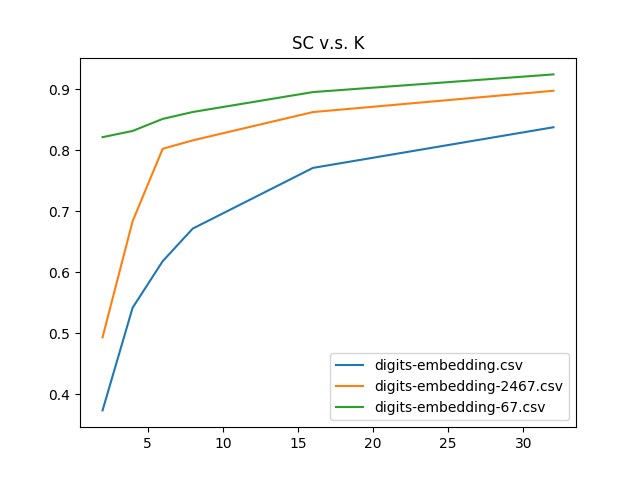
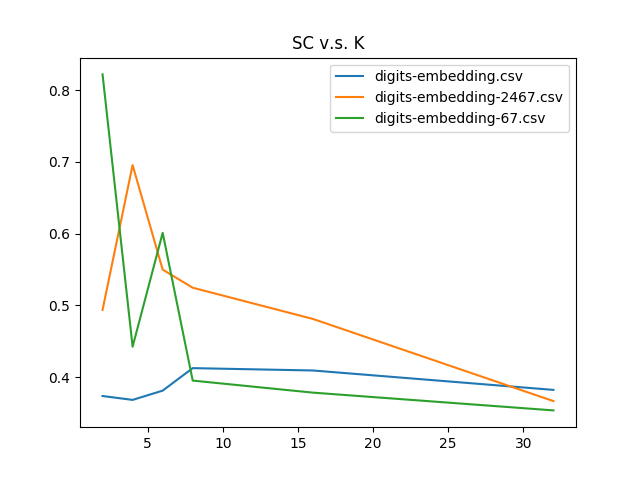
need to fix contingency table in nmi

diff --git a/hw5/analysis.py b/hw5/analysis.py
@@ -3,80 +3,135 @@ from kmeans import KMeans
 from pca import PCA
 
 def A1():
-	'''
-		Visualizing one digit.
-	'''
-	raw = genfromtxt('digits-raw.csv', delimiter=',')
-	image = raw[randint(raw.shape[0])][2:].reshape(28, 28)
-	imshow(image, cmap='gray')
-	show()
+    '''
+        Visualizing one digit.
+    '''
+    raw = genfromtxt('digits-raw.csv', delimiter=',')
+    image = raw[randint(raw.shape[0])][2:].reshape(28, 28)
+    imshow(image, cmap='gray')
+    show()
 
 def A2():
-	'''
-		Visualize 1000 embedding examples in 2D.
-	'''
-	emb = genfromtxt('digits-embedding.csv', delimiter=',')
-	perm = permutation(emb.shape[0])[:1000]
-	labels = array(emb[perm, 1], dtype=int)
-	colors = rand(10, 3)[labels, :]
-	scatter(emb[perm, 2], emb[perm, 3], c=colors, alpha=0.9, s=10)
-	show()
+    '''
+        Visualize 1000 embedding examples in 2D.
+    '''
+    emb = genfromtxt('digits-embedding.csv', delimiter=',')
+    perm = permutation(emb.shape[0])[:1000]
+    labels = array(emb[perm, 1], dtype=int)
+    colors = rand(10, 3)[labels, :]
+    scatter(emb[perm, 2], emb[perm, 3], c=colors, alpha=0.9, s=10)
+    show()
 
 def B1():
-	'''
-		Plot WC_SSD and SC over K.
-	'''
-	K = [2, 4, 6, 8, 16, 32]
-	fnames = ['digits-embedding.csv', 'digits-embedding-2467.csv', 'digits-embedding-67.csv']
-	wc_ssd = zeros((len(fnames), len(K)))
-	sc = zeros((len(fnames), len(K)))
-	for i, fname in enumerate(fnames):	
-		X = genfromtxt(fname, delimiter=',')[:, 2:]
-		for j, k in enumerate(K):
-			kmeans = KMeans(n_clusters=k)
-			kmeans.fit(X)
-			wc_ssd[i, j], sc[i, j], _ = kmeans.get_evals()
-	# Plot WC_SSD
-	figure()
-	for i, fname in enumerate(fnames):
-		plot(K, wc_ssd[i], label=fname)
-	legend()
-	title('WC_SSD v.s. K')
-	figure()
-	for i, fname in enumerate(fnames):
-		plot(K, sc[i], label=fname)
-	legend()
-	title('SC v.s. K')
-	show()
+    '''
+        Plot WC_SSD and SC over K.
+    '''
+    K = [2, 4, 6, 8, 16, 32]
+    fnames = ['digits-embedding.csv', 'digits-embedding-2467.csv', 'digits-embedding-67.csv']
+    wc_ssd = zeros((len(fnames), len(K)))
+    sc = zeros((len(fnames), len(K)))
+    for i, fname in enumerate(fnames):  
+        X = genfromtxt(fname, delimiter=',')[:, 2:]
+        for j, k in enumerate(K):
+            kmeans = KMeans(n_clusters=k)
+            kmeans.fit(X)
+            wc_ssd[i, j], sc[i, j], _ = kmeans.get_evals()
+    # Plot WC_SSD
+    figure()
+    for i, fname in enumerate(fnames):
+        plot(K, wc_ssd[i], label=fname)
+    legend()
+    title('WC_SSD v.s. K')
+    figure()
+    for i, fname in enumerate(fnames):
+        plot(K, sc[i], label=fname)
+    legend()
+    title('SC v.s. K')
+    show()
+
+def B3():
+    '''
+        Repeat 10 times for each K.
+    '''
+    K = [2, 4, 6, 8, 16, 32]
+    fnames = ['digits-embedding.csv', 'digits-embedding-2467.csv', 'digits-embedding-67.csv']
+    wc_ssd = zeros((len(fnames), len(K), 10))
+    sc = zeros((len(fnames), len(K), 10))
+    for i, fname in enumerate(fnames):  
+        X = genfromtxt(fname, delimiter=',')[:, 2:]
+        for j, k in enumerate(K):
+            for m in range(10):
+                kmeans = KMeans(n_clusters=k)
+                kmeans.fit(X)
+                wc_ssd[i, j, m], sc[i, j, m], _ = kmeans.get_evals()
+    ssd_means = mean(wc_ssd, axis=2)
+    sc_means = mean(sc, axis=2)
+    ssd_std = std(wc_ssd, axis=2)
+    sc_std = std(sc, axis=2)
+    save('B3_wc_ssd.npy', wc_ssd), save('B3_sc.npy', sc)
+    # Plot WC_SSD
+    figure()
+    for i, fname in enumerate(fnames):
+        errorbar(K, ssd_means[i], ssd_std[i], label=fname)
+    legend()
+    title('WC_SSD v.s. K')
+    figure()
+    for i, fname in enumerate(fnames):
+        errorbar(K, sc_means[i], sc_std[i], label=fname)
+    legend()
+    title('SC v.s. K')
+    show()
+
+def B4():
+    '''
+        Evaluate using NMI and visualize in 2D.
+    '''
+    fnames = ['digits-embedding.csv', 'digits-embedding-2467.csv', 'digits-embedding-67.csv']
+    nmi = zeros(len(fnames))
+    for i, k, fname in zip([0, 1, 2], [8, 4, 2], fnames):
+        raw = genfromtxt(fname, delimiter=',')
+        X = raw[:, 2:]
+        y = raw[:, 1]
+        kmeans = KMeans(n_clusters=k)
+        ind = kmeans.fit(X, y)
+        _, _, nmi[i] = kmeans.get_evals()
+        figure()
+        perm = permutation(X.shape[0])[:1000]
+        X = X[perm]
+        ind = ind[perm]
+        colors = rand(k, 3)[ind, :]
+        scatter(X[:, 0], X[:, 1], c=colors, alpha=0.9, s=30)
+    print "NMI =", nmi
+    show()
 
 def Bonus2():
-	'''
-		Visualization of the first 10 eigen vectors.
-	'''
-	raw = genfromtxt('digits-raw.csv', delimiter=',')
-	X = raw[:, 2:]
-	pca = PCA(10)
-	eigvec = pca.fit(X)
-	eigimg = eigvec.reshape(10, 28, 28)
-	for r in range(2):
-		for c in range(5):
-			i = r*5 + c
-			subplot(2, 5, i + 1)
-			imshow(eigimg[i], cmap='gray')
-			title(str(i))
-	show()
+    '''
+        Visualization of the first 10 eigen vectors.
+    '''
+    raw = genfromtxt('digits-raw.csv', delimiter=',')
+    X = raw[:, 2:]
+    pca = PCA(10)
+    eigvec = pca.fit(X)
+    eigimg = eigvec.reshape(10, 28, 28)
+    for r in range(2):
+        for c in range(5):
+            i = r*5 + c
+            subplot(2, 5, i + 1)
+            imshow(eigimg[i], cmap='gray')
+            title(str(i))
+    show()
 
 def Bonus3():
-	'''
-		Scatter plot of samples projected onto the first 
-		two eigenvectors.
-	'''
-	raw = genfromtxt('digits-raw.csv', delimiter=',')
-	X = raw[:, 2:]
-	pca = PCA(2)
-	X_new = pca.fit_transform(X)
-	perm = permutation(X.shape[0])[:1000]
-	labels = array(raw[perm, 1], dtype=int)
-	colors = rand(10, 3)[labels, :]
-	scatter(X_new[perm, 0], X_new[perm, 1], c=colors, alpha=0.9, s=10)
-	show()
+    '''
+        Scatter plot of samples projected onto the first 
+        two eigenvectors.
+    '''
+    raw = genfromtxt('digits-raw.csv', delimiter=',')
+    X = raw[:, 2:]
+    pca = PCA(2)
+    X_new = pca.fit_transform(X)
+    perm = permutation(X.shape[0])[:1000]
+    labels = array(raw[perm, 1], dtype=int)
+    colors = rand(10, 3)[labels, :]
+    scatter(X_new[perm, 0], X_new[perm, 1], c=colors, alpha=0.9, s=10)
+    show()

diff --git a/hw5/kmeans.py b/hw5/kmeans.py
@@ -1,14 +1,15 @@
 from pylab import *
 from sklearn.neighbors import NearestNeighbors
 from sklearn.metrics import silhouette_score, mutual_info_score
-
+import time
 
 class KMeans(object):
     """KMeans clustering"""
-    def __init__(self, n_clusters=10, max_iter=50):
+    def __init__(self, n_clusters=10, max_iter=50, debug=False):
         super(KMeans, self).__init__()
         self.n_clusters = n_clusters
         self.max_iter = max_iter
+        self.debug = debug
         self.WC_SSD = -1.
         self.SC = -1.
         self.NMI = -1.
@@ -37,6 +38,7 @@ class KMeans(object):
             # Update the cluster centers
             for k in range(self.n_clusters):
                 C[k] = mean(X[ind == k], axis=0)
+        t1 = time.time()
         # Compute the WC_SSD
         self.WC_SSD = sum((X - C[ind])**2)
 
@@ -46,15 +48,19 @@ class KMeans(object):
                 Compute SC for a single sample.
             '''
             dist = norm(X - x[:-1], axis=1)
+            nc_ind = argsort(norm(C - x[:-1], axis=1))[1]
             # x[-1] is encoded as the ind of x
-            wc = mean(dist[ind == x[-1]])
-            bc = mean(dist[ind != x[-1]])
-            return (bc - wc) / max(bc, wc)
+            a = sum(dist[ind == x[-1]]) / (sum(ind == x[-1]) - 1)
+            # b = mean(dist[ind != x[-1]])
+            b = mean(dist[ind == nc_ind])
+            return (b - a) / max(a, b)
         # Encode ind along with X
         X_enc = hstack((X, ind.reshape(-1, 1)))
         self.SC = mean(apply_along_axis(sc, 1, X_enc))
+        t2 = time.time()
         # Compute the NMI
         if isinstance(y, ndarray):
+            y = array(y, dtype=int)
             pc = unique(y, return_counts=True)[1]
             pc = pc * 1.0 / sum(pc)
             logpc = log(pc)
@@ -66,14 +72,19 @@ class KMeans(object):
             # pcg is n_clusters x n_classes
             pcg = bincount(self.n_clusters * ind + y,
                             minlength=self.n_clusters * n_classes) \
-                            .reshape(n_clusters, n_classes)
+                            .reshape(self.n_clusters, n_classes)
             pcg = pcg * 1.0 / sum(pcg)
-            nomin = sum(pcg * log(pcg / pc / pg[:, None]))
+            numer = sum(pcg * log(pcg / pc / pg[:, None]))
             denom = - dot(pc, logpc) - dot(pg, logpg)
-            self.NMI = nomin / denom
+            self.NMI = numer / denom
         print "WC-SSD %.3f" % self.WC_SSD
         print "SC %.3f" % self.SC
         print "NMI %.3f" % self.NMI
+        if self.debug: 
+            print "sklearn SC %.3f" % silhouette_score(X, ind)
+            if isinstance(y, ndarray): 
+                print "sklearn NMI %.3f" % mutual_info_score(y, ind)
+            print t2 - t1, time.time() - t2
         return ind
 
     def get_evals(self):
@@ -82,15 +93,15 @@ class KMeans(object):
         '''
         return self.WC_SSD, self.SC, self.NMI
 
+    def main():
+        n_clusters = 10
+        X = randn(1000, 2)
+        y = randint(n_clusters, size=1000)
+        kmeans = KMeans(n_clusters, debug=True)
+        ind = kmeans.fit(X, y)
+        colors = rand(n_clusters, 3)[ind, :]
+        scatter(X[:, 0], X[:, 1], c=colors, alpha=0.9, s=30)
+        show()     
 
 if __name__ == '__main__':
-    n_clusters = 10
-    X = randn(1000, 2)
-    y = randint(n_clusters, size=1000)
-    kmeans = KMeans(n_clusters)
-    ind = kmeans.fit(X, y)
-    print "WC_SSD, SC, NMI =", kmeans.get_evals()
-    print "sklearn SC =", silhouette_score(X, ind)
-    colors = rand(n_clusters, 3)[ind, :]
-    scatter(X[:, 0], X[:, 1], c=colors, alpha=0.9, s=30)
-    show()
+    main()

diff --git a/hw5/hw5.py b/hw5/hw5.py
@@ -18,6 +18,10 @@ def main():
 		A2()
 	if args.analysis == 'B1':
 		B1()
+	if args.analysis == 'B3':
+		B3()
+	if args.analysis == 'B4':
+		B4()
 	if args.analysis == 'Bonus2':
 		Bonus2()
 	if args.analysis == 'Bonus3':
